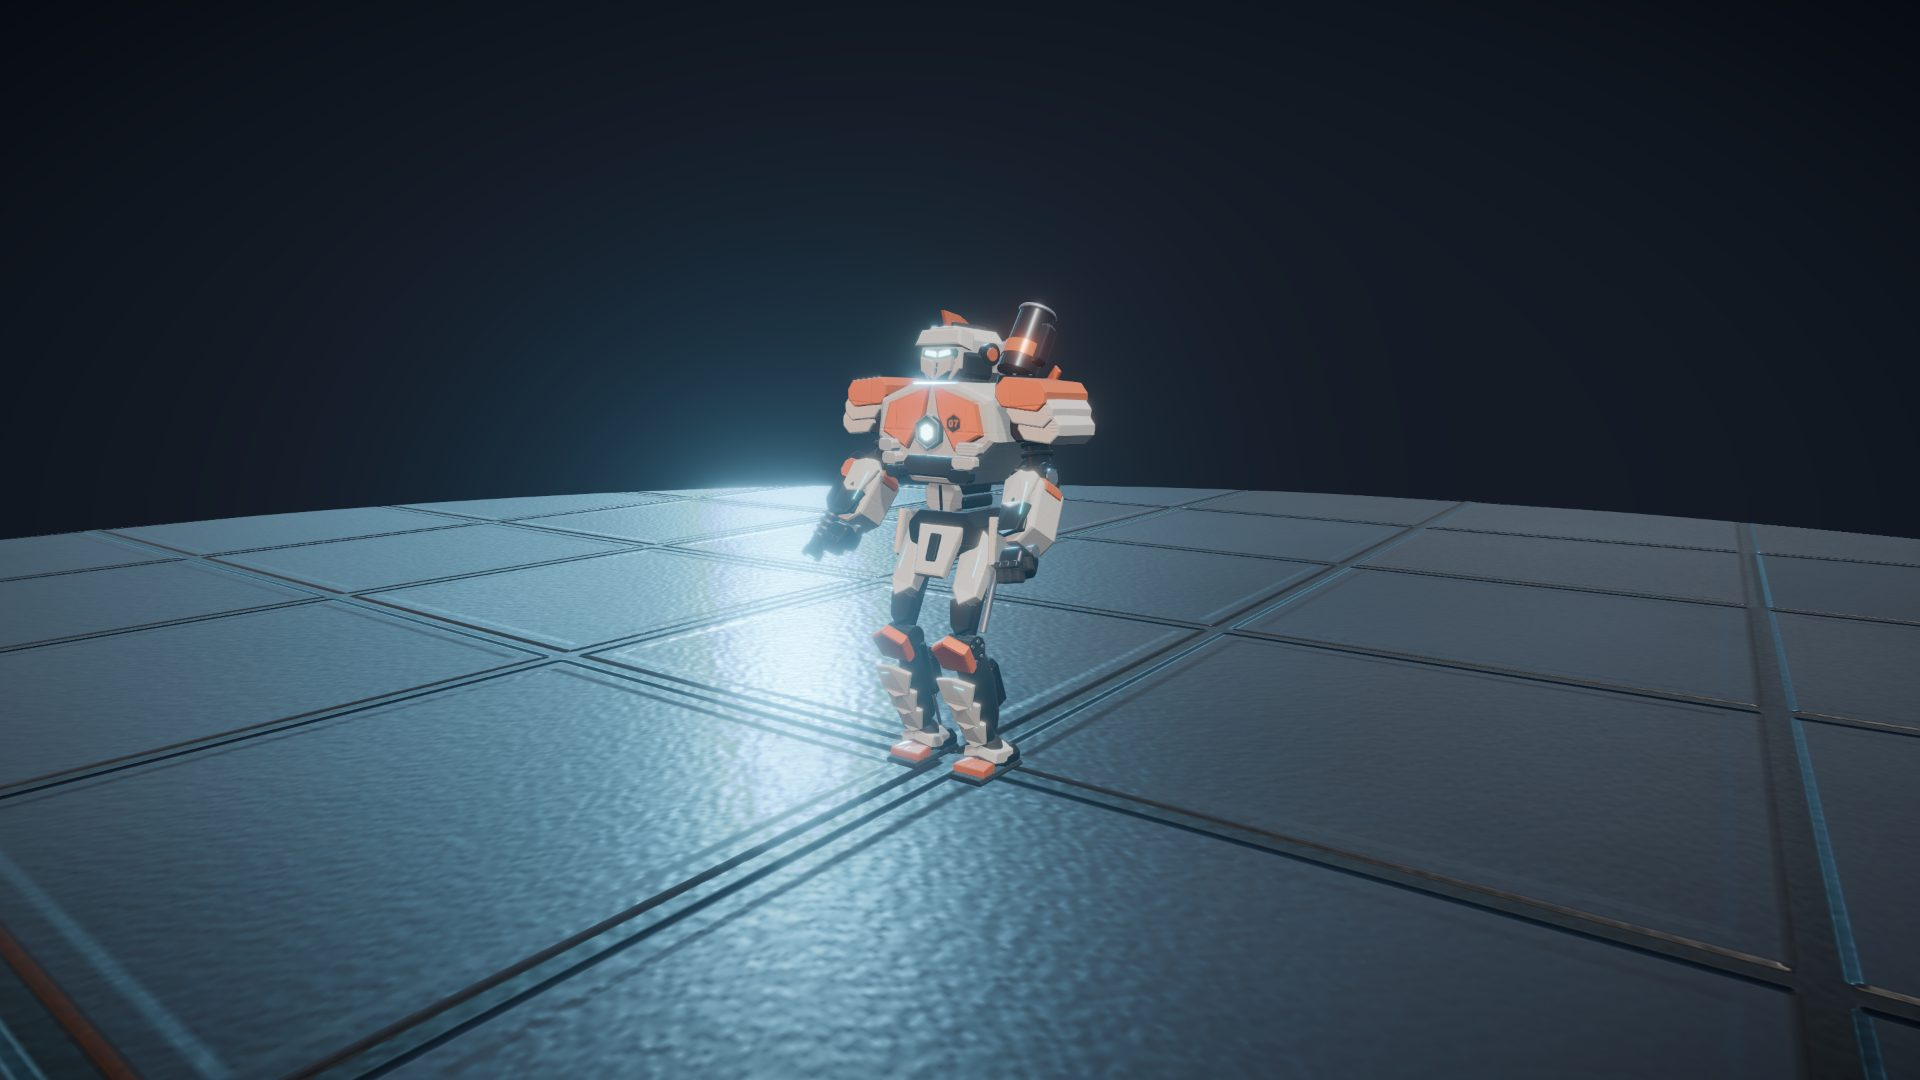
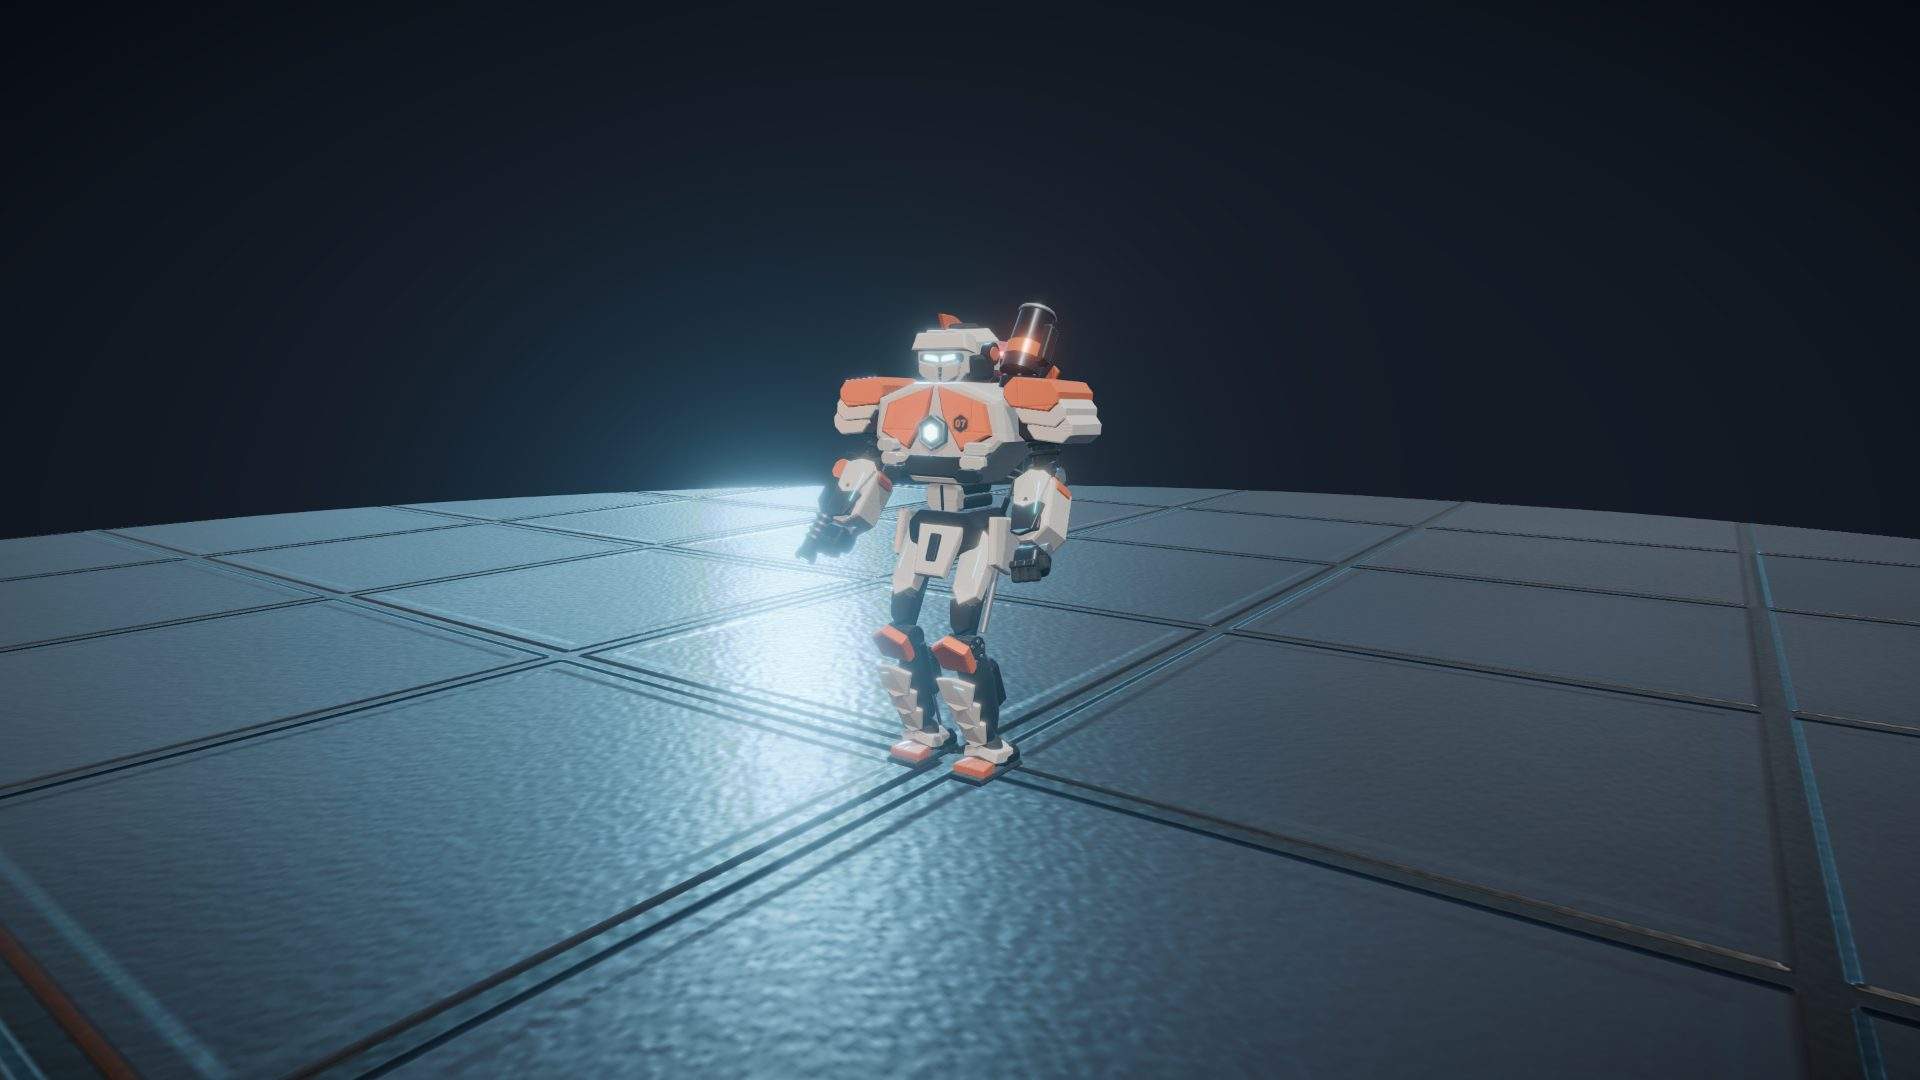
Reconstruct AO normals from depth to avoid a second geometry pass

Changed region(s): [[0.4062, 0.275, 0.5938, 0.55]]

diff --git a/src/render/depthNormals.ts b/src/render/depthNormals.ts
@@ -1,0 +1,39 @@
+import * as THREE from 'three';
+import { Pass } from 'postprocessing';
+
+/** Reconstruct view normals from scene depth, without drawing every mech a second time. */
+export class DepthNormalsPass extends Pass {
+  private target = new THREE.WebGLRenderTarget(1, 1, { depthBuffer: false });
+  private material: THREE.ShaderMaterial;
+  constructor(camera: THREE.PerspectiveCamera) {
+    super('DepthNormals');
+    this.needsSwap = false;
+    this.needsDepthTexture = true;
+    this.material = new THREE.ShaderMaterial({
+      depthTest: false, depthWrite: false,
+      uniforms: { depthMap: { value: null }, inverseProjection: { value: camera.projectionMatrixInverse }, texel: { value: new THREE.Vector2() } },
+      vertexShader: `varying vec2 vUv;void main(){vUv=position.xy*.5+.5;gl_Position=vec4(position.xy,0.,1.);}`,
+      fragmentShader: `uniform sampler2D depthMap;uniform mat4 inverseProjection;uniform vec2 texel;varying vec2 vUv;
+        vec3 unproject(vec2 uv){float d=texture2D(depthMap,uv).r;vec4 p=inverseProjection*vec4(uv*2.-1.,d*2.-1.,1.);return p.xyz/p.w;}
+        void main(){
+          vec3 c=unproject(vUv),l=unproject(vUv-vec2(texel.x,0.)),r=unproject(vUv+vec2(texel.x,0.));
+          vec3 b=unproject(vUv-vec2(0.,texel.y)),t=unproject(vUv+vec2(0.,texel.y));
+          vec3 dx=abs(c.z-l.z)<abs(r.z-c.z)?c-l:r-c;
+          vec3 dy=abs(c.z-b.z)<abs(t.z-c.z)?c-b:t-c;
+          vec3 n=normalize(cross(dx,dy));gl_FragColor=vec4(n*.5+.5,1.);
+        }`,
+    });
+    this.fullscreenMaterial = this.material;
+  }
+  get texture() { return this.target.texture; }
+  setDepthTexture(texture: THREE.Texture) { this.material.uniforms.depthMap.value = texture; }
+  setSize(width: number, height: number) {
+    this.target.setSize(Math.max(1, Math.ceil(width / 2)), Math.max(1, Math.ceil(height / 2)));
+    this.material.uniforms.texel.value.set(1 / width, 1 / height);
+  }
+  render(renderer: THREE.WebGLRenderer) {
+    renderer.setRenderTarget(this.target);
+    renderer.render(this.scene, this.camera);
+  }
+  dispose() { this.target.dispose(); this.material.dispose(); }
+}

diff --git a/src/render/renderer.ts b/src/render/renderer.ts
@@ -1,7 +1,7 @@
+import { DepthNormalsPass } from './depthNormals';
 import * as THREE from 'three';
 import {
   EffectComposer,
-  NormalPass,
   SSAOEffect,
   RenderPass,
   EffectPass,
@@ -45,7 +45,7 @@ export class GameRenderer {
   profile: QualityProfile = QUALITY.medium;
 
   private renderPass: RenderPass;
-  private normals: NormalPass;
+  private normals: DepthNormalsPass;
   private aoPass: EffectPass;
   private bloom: BloomEffect;
   private chroma: ChromaticAberrationEffect;
@@ -78,7 +78,7 @@ export class GameRenderer {
     this.composer = new EffectComposer(this.renderer, { frameBufferType: THREE.HalfFloatType, multisampling: 0 });
     this.renderPass = new RenderPass(this.scene, this.camera);
     this.composer.addPass(this.renderPass);
-    this.normals = new NormalPass(this.scene, this.camera, { resolutionScale: 0.5 });
+    this.normals = new DepthNormalsPass(this.camera);
     this.composer.addPass(this.normals);
     const ao = new SSAOEffect(this.camera, this.normals.texture, {
       samples: 8, rings: 3, resolutionScale: 0.5, radius: 0.075, intensity: 1.15,
@@ -152,7 +152,6 @@ export class GameRenderer {
   setScene(scene: THREE.Scene) {
     this.scene = scene;
     this.renderPass.mainScene = scene;
-    this.normals.mainScene = scene;
     (this.renderPass as any).scene = scene;
   }
 
